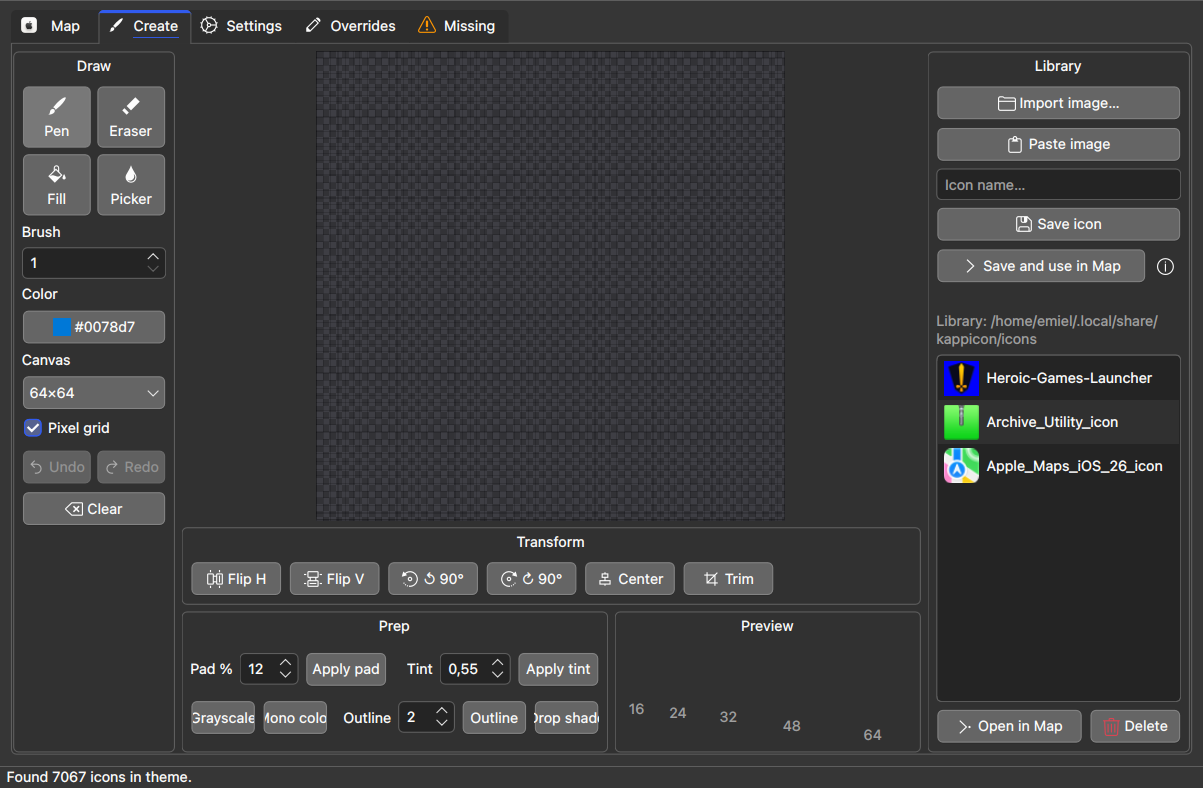
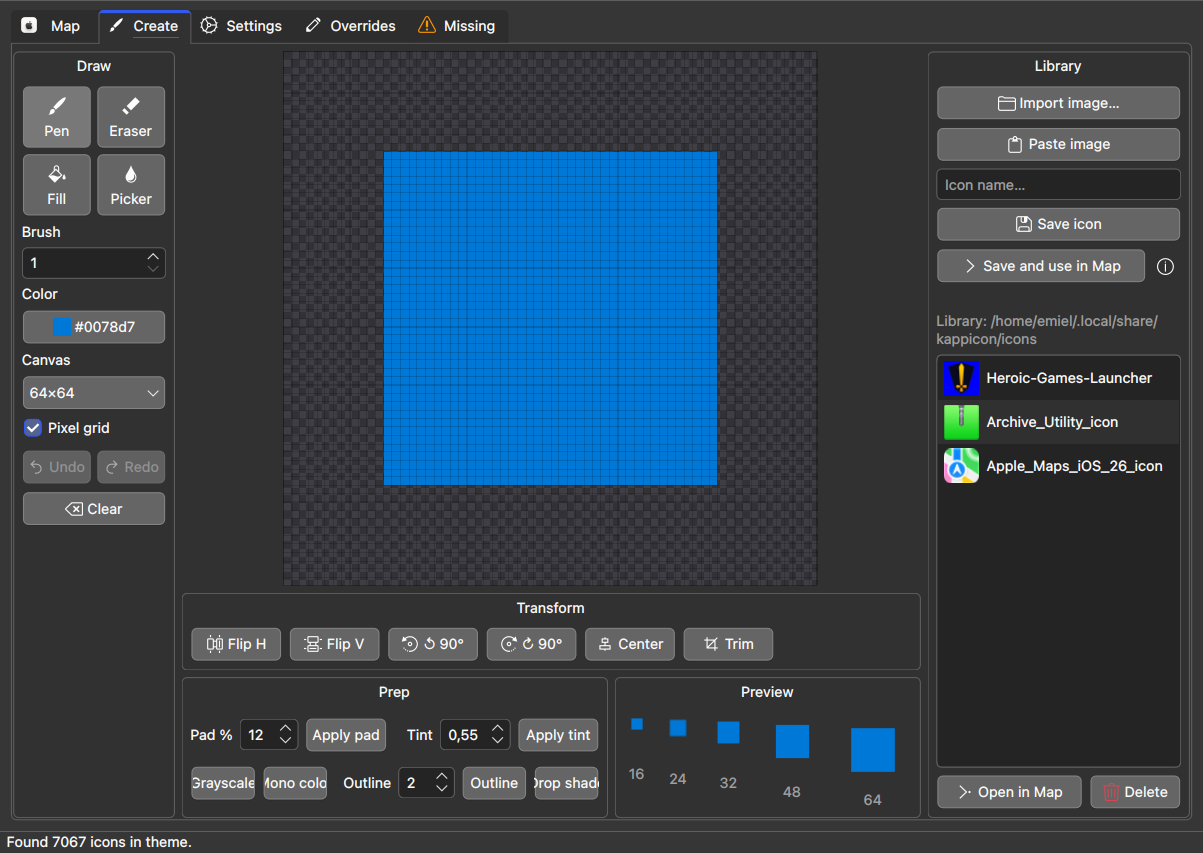
Docs: refresh Create tab screenshot for prep kit layout.
Replace gui-create.png (and layout twin) so the README shows Draw rail,
Transform, Prep, and size previews.

diff --git a/README.md b/README.md
@@ -52,6 +52,8 @@ Dependencies, updates, and distro packages → **[Installation wiki](https://git
 
 ### Create
 
+Draw, import/paste, prep kit (pad, tint, mono, outline, shadow), transforms, and size previews.
+
 ![Create tab](screenshots/gui-create.png)
 
 ### Settings
